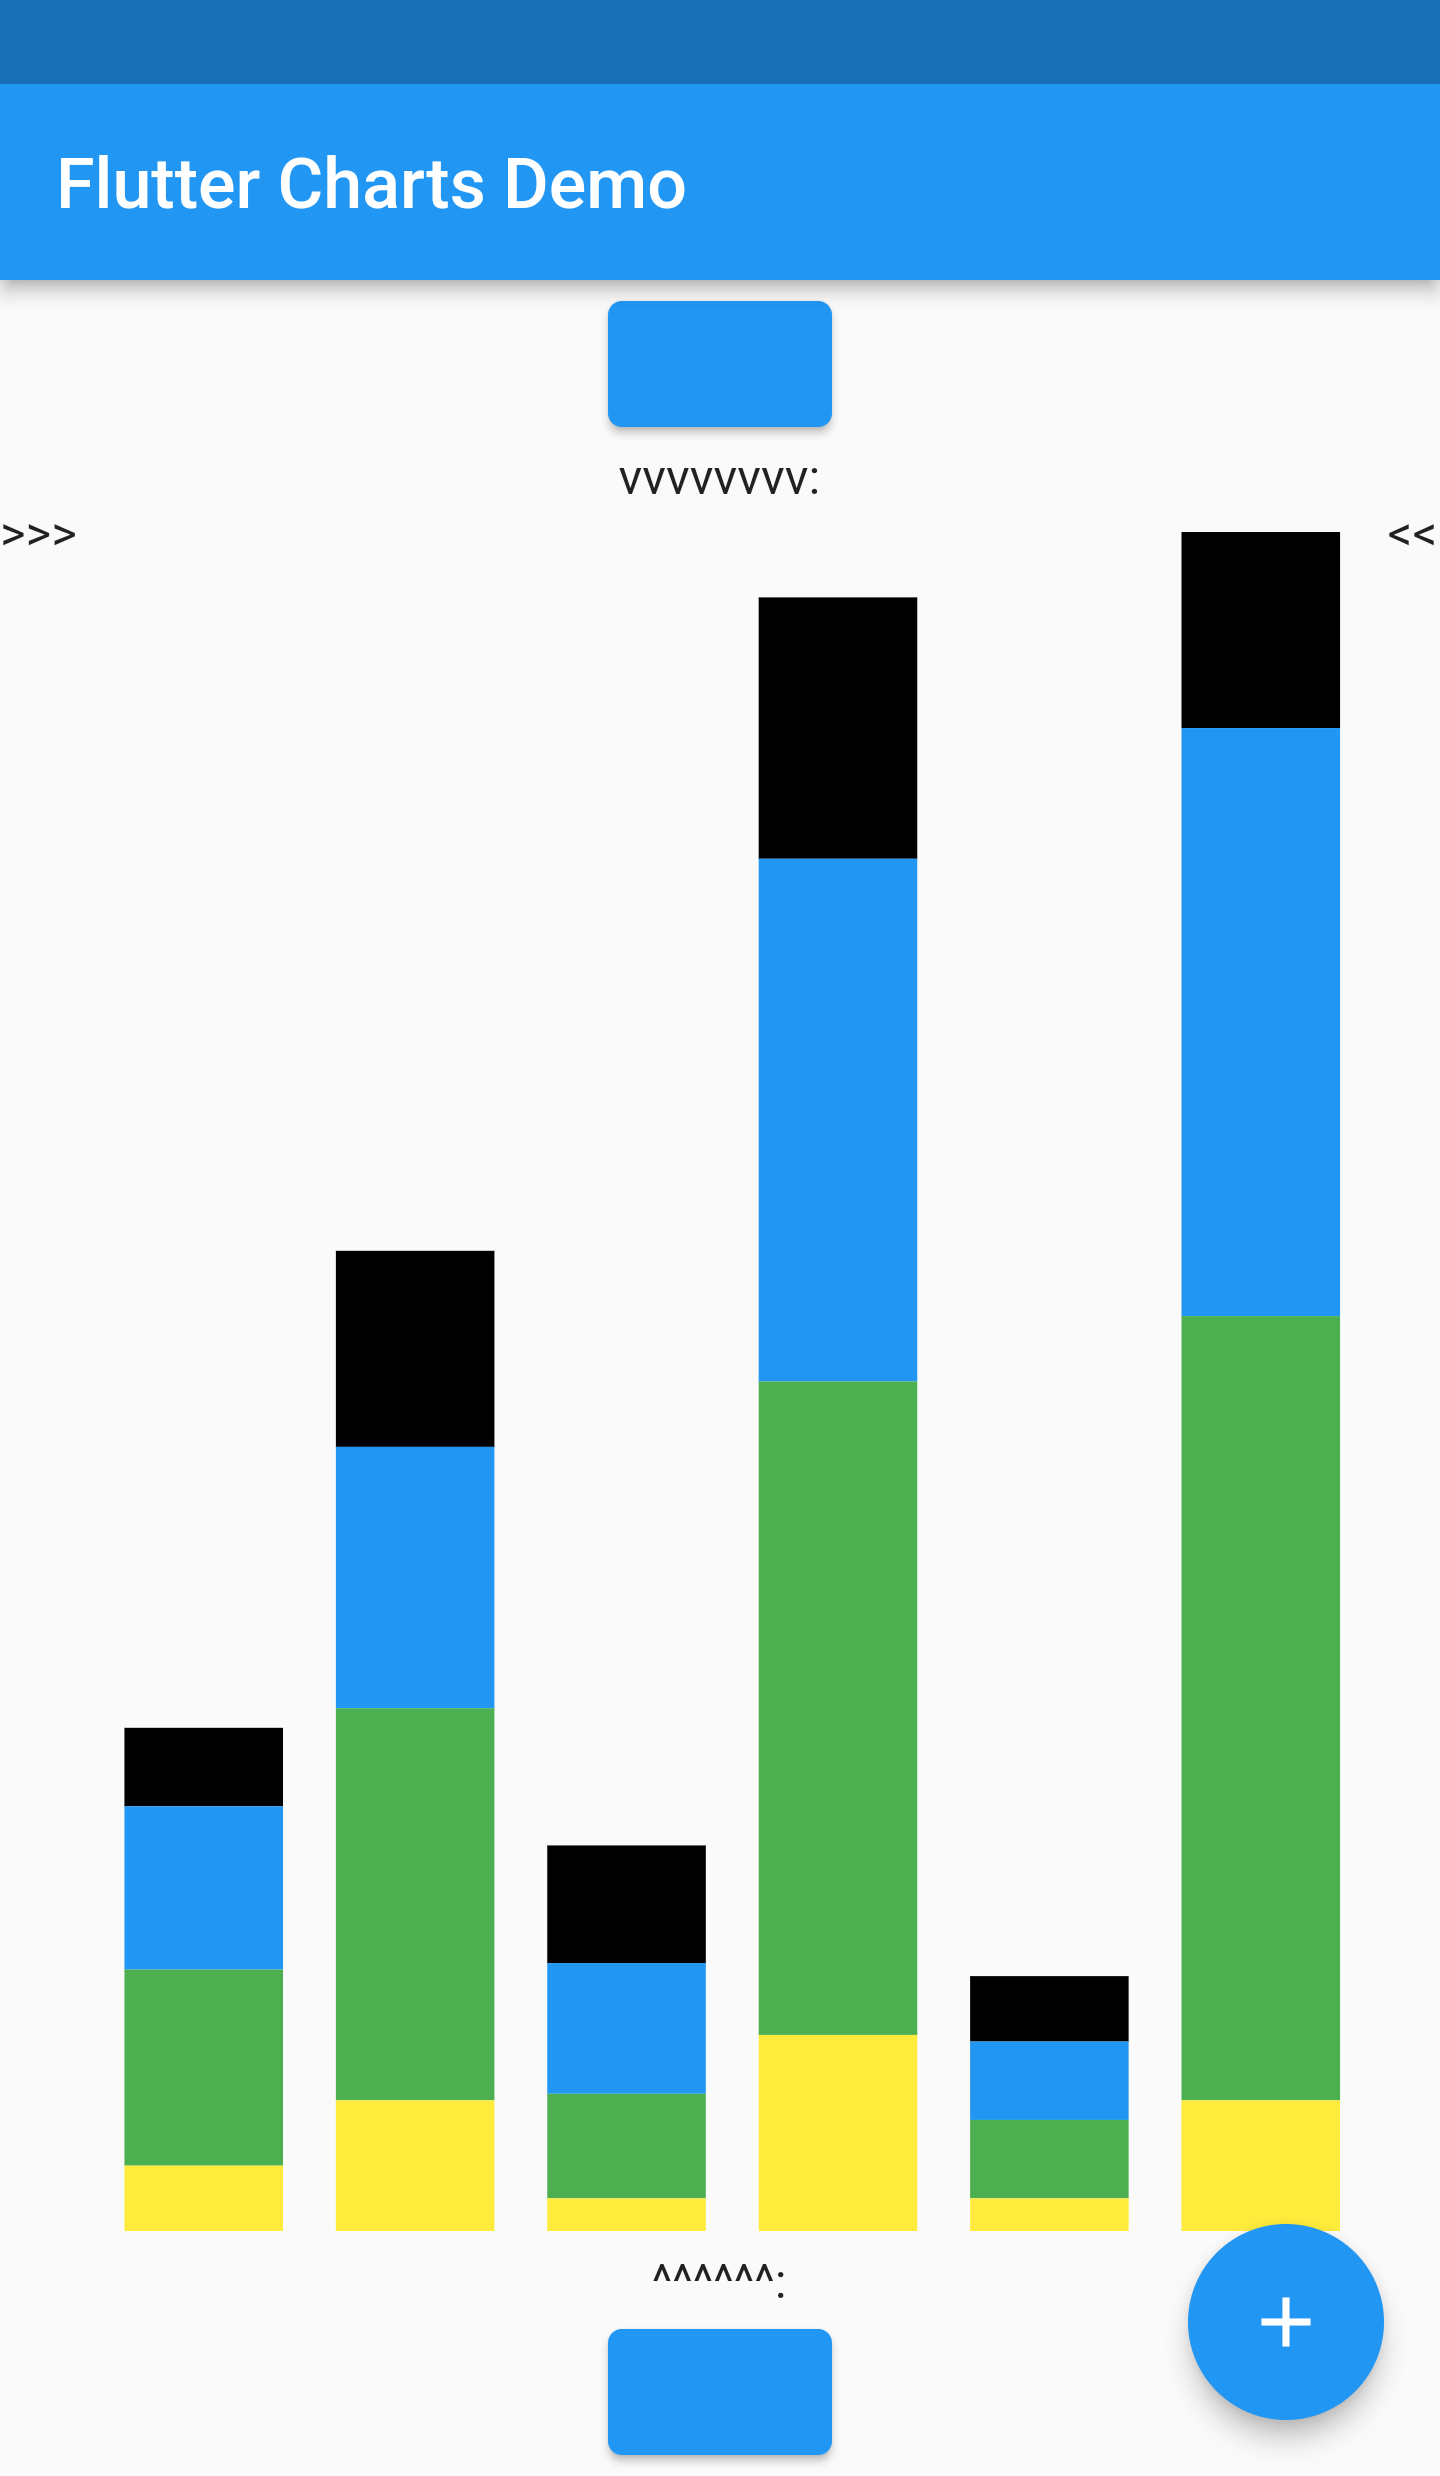
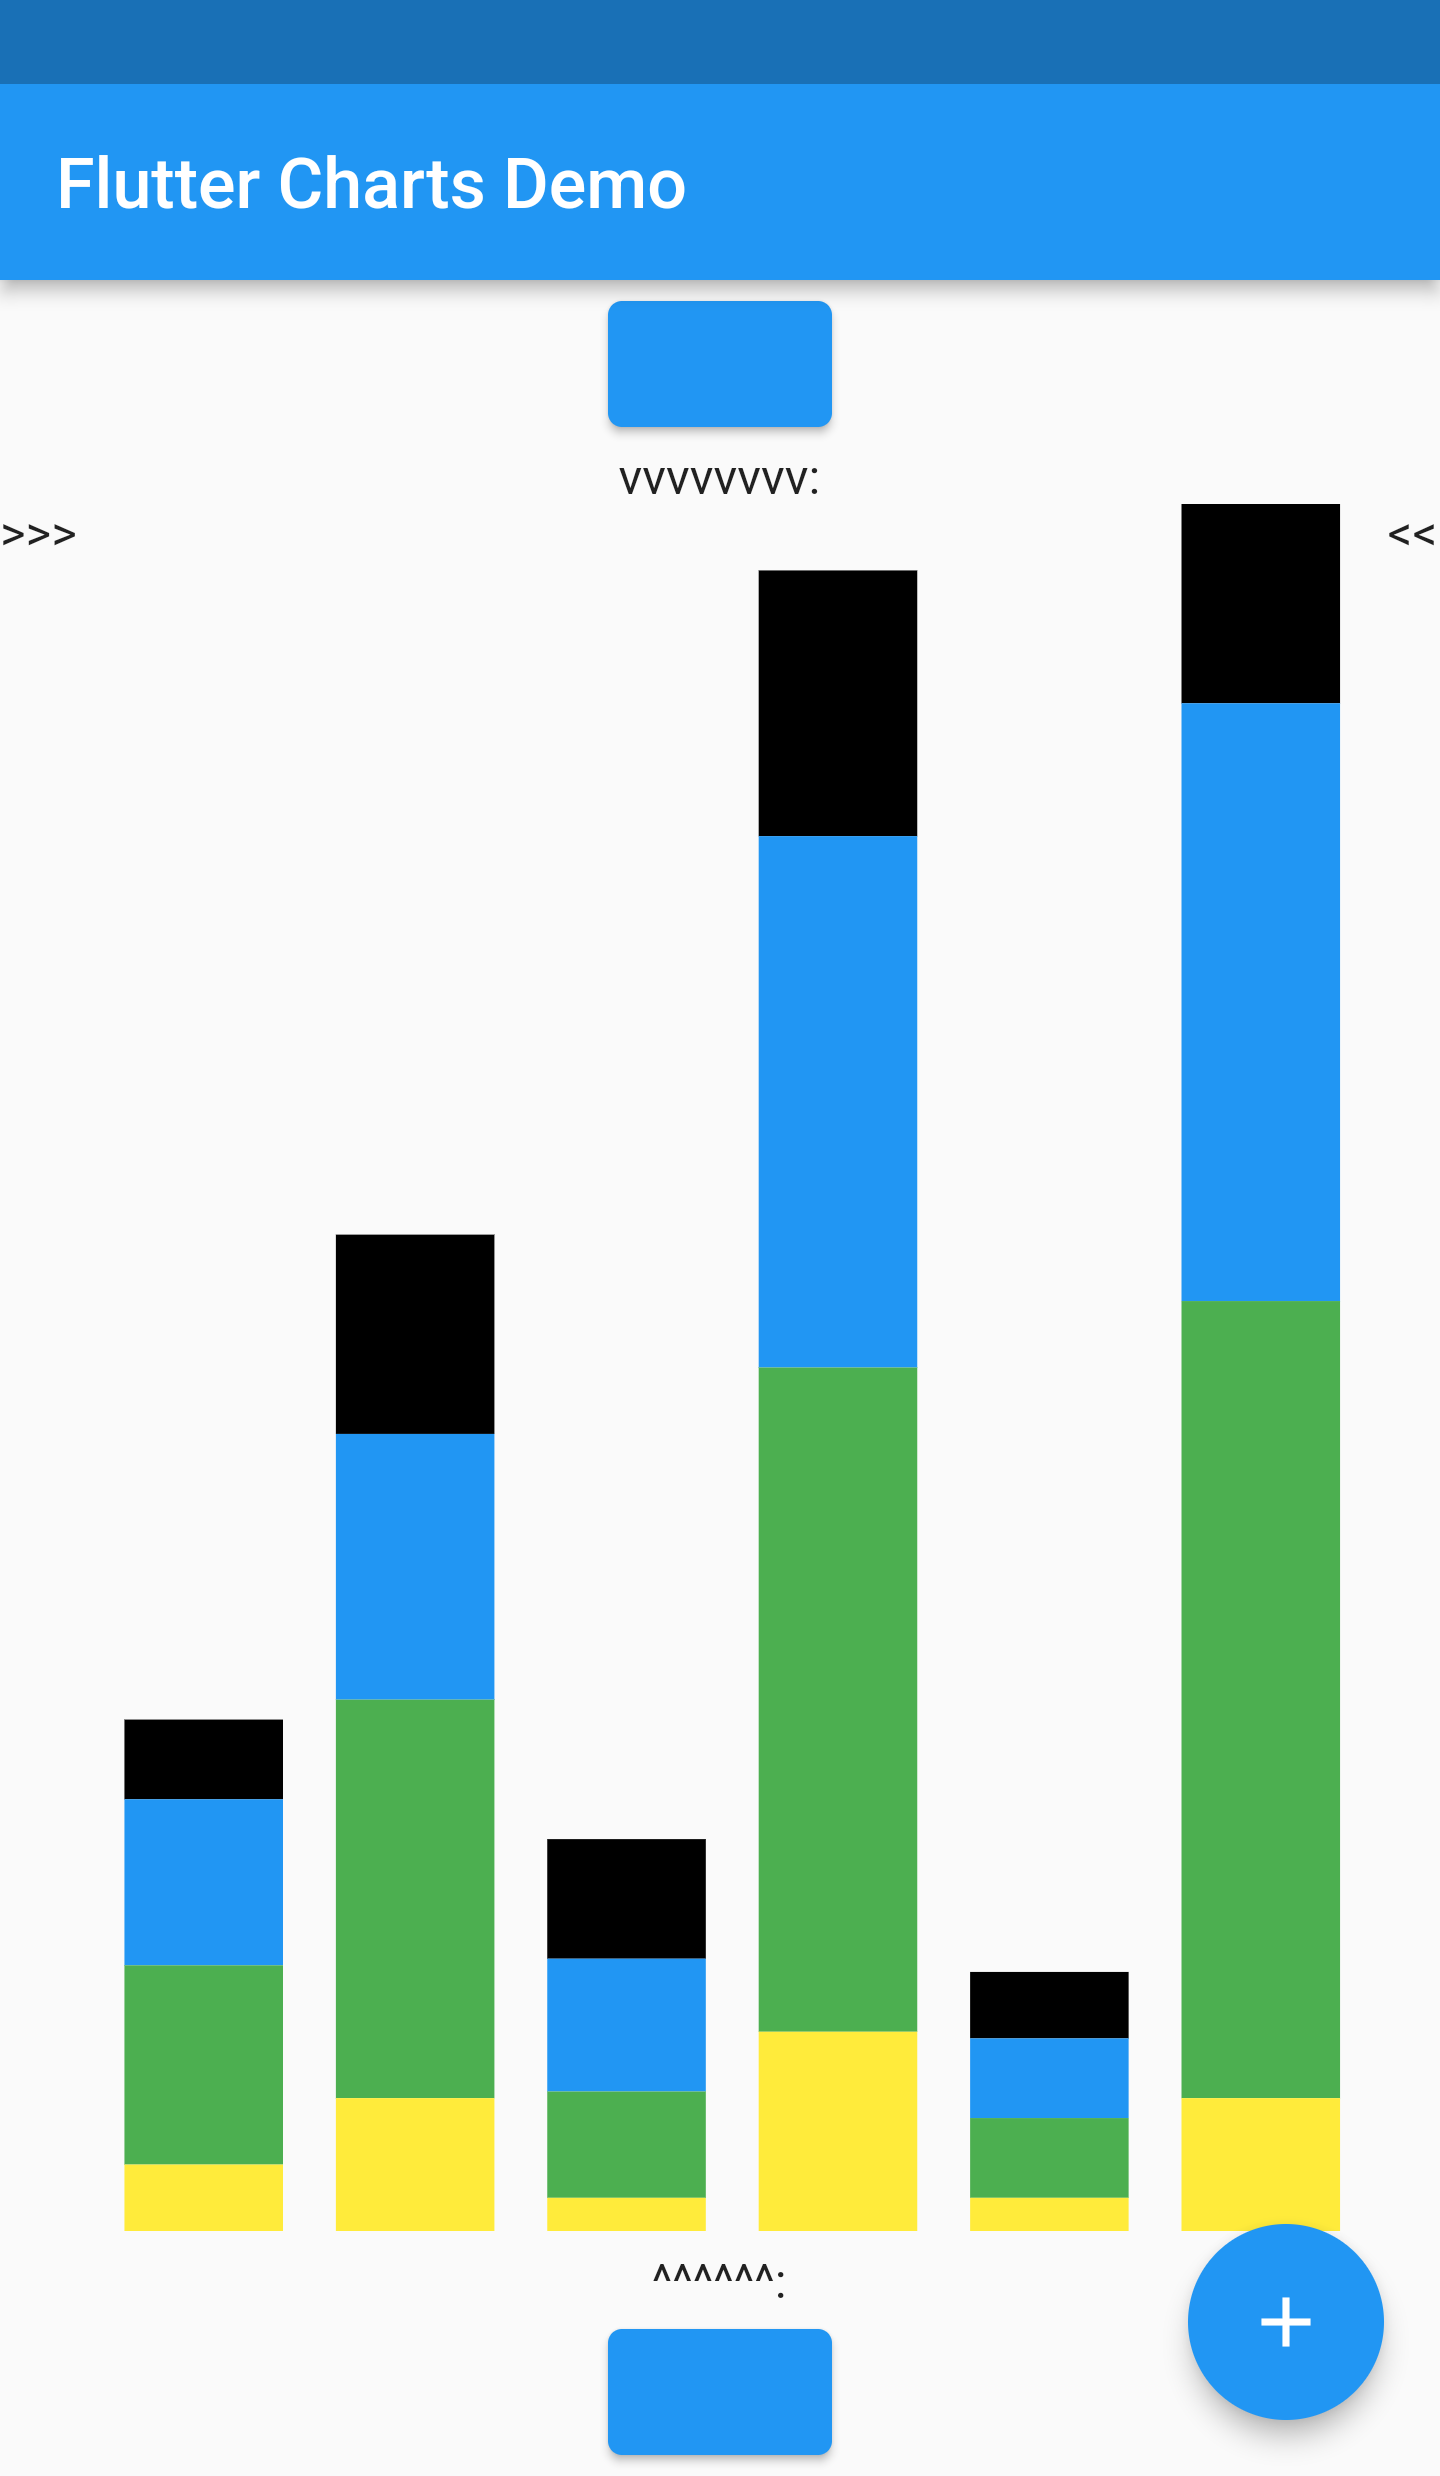
Minor change to yLabelsMaxHeightFromFirstLayout made public, and set after first layout on YContainer (as it was originally). Tests working.

diff --git a/lib/src/chart/container.dart b/lib/src/chart/container.dart
@@ -354,10 +354,10 @@ abstract class ChartRootContainer extends BoxContainerUsingManualLayout with Cha
 
     // todo-00-last-last added as we cannot use anything from first layout,which did not happen yet. Debug showed this was 16.0
     // This seems to be used as how much from the top of Y gridline is NOT used for scaling; does NOT affect correctness
-    var yLabelsMaxHeightFromFirstLayout = 16.0;
+    // todo-00-last-last : var yLabelsMaxHeightFromFirstLayout = 16.0;
     yContainer = YContainer(
       chartRootContainer: this,
-      yLabelsMaxHeightFromFirstLayout: yLabelsMaxHeightFromFirstLayout,
+      // todo-00-last-last : yLabelsMaxHeightFromFirstLayout: yLabelsMaxHeightFromFirstLayout,
     );
     children.add(yContainer); // todo-01-done-duplicite-children
 
@@ -417,7 +417,10 @@ abstract class ChartRootContainer extends BoxContainerUsingManualLayout with Cha
     ));
 
     yContainerFirst.layout(yContainerFirstBoxConstraints);
+
+    // Use values from the yContainerFirst pre-layout on yContainer, and xContainer constraints
     double yLabelsMaxHeightFromFirstLayout = yContainerFirst.yLabelsMaxHeight;
+    yContainer._yLabelsMaxHeightFromFirstLayout = yLabelsMaxHeightFromFirstLayout;
     // todo-00-last-last-done : yContainer = yContainerFirst;
     // todo-00-last-last-done : ui.Size yContainerFirstSize = yContainer.layoutSize;
     // yContainerFirst.layoutSize is needed by XContainer to get it's width. Must not change on second YContainer layout
@@ -592,7 +595,8 @@ class YContainer extends ChartAreaContainerUsingManualLayout {
   /// todo 0-future-minor : above is not true now for user defined labels
   late List<AxisLabelContainer> _yLabelContainers;
 
-  final double _yLabelsMaxHeightFromFirstLayout;
+  /// Maximum label height defined by the first layout (pre-layout), in layout after this is created
+  double _yLabelsMaxHeightFromFirstLayout = 0.0;
 
   /// Constructs the container that holds Y labels.
   ///
@@ -600,11 +604,12 @@ class YContainer extends ChartAreaContainerUsingManualLayout {
   /// all available vertical space, and only use necessary horizontal space.
   YContainer({
     required ChartRootContainer chartRootContainer,
-    required double yLabelsMaxHeightFromFirstLayout,
-  })  : _yLabelsMaxHeightFromFirstLayout = yLabelsMaxHeightFromFirstLayout,
-        super(
+    double yLabelsMaxHeightFromFirstLayout = 0.0,
+  }) : super(
           chartRootContainer: chartRootContainer,
-        );
+        ) {
+    _yLabelsMaxHeightFromFirstLayout = yLabelsMaxHeightFromFirstLayout;
+  }
 
   /// Lays out the area containing the Y axis labels.
   ///
@@ -1442,7 +1447,8 @@ class GridLinesContainer extends BoxContainer {
 
   /// Overrides the concrete super method [BoxContainer.paint].
   ///
-  /// Does not do super's skipping of ignored children and painting a yellow-and-black warning box.
+  /// [GridLinesContainer] does not do super's skipping of ignored children and
+  /// also does not do painting a yellow-and-black warning box.
   @override
   void paint(ui.Canvas canvas) {
     for (LineContainer lineContainer in _lineContainers) {

diff --git a/lib/src/chart/layouter_one_dimensional.dart b/lib/src/chart/layouter_one_dimensional.dart
@@ -18,6 +18,9 @@ import 'package:flutter_charts/src/util/util_dart.dart' as util_dart show LineSe
 enum Packing {
   /// [Packing.matrjoska] should layout elements so that the smallest element is fully
   /// inside the next larger element, and so on. The largest element contains all smaller elements.
+  ///
+  /// This packing is used on cross-axis for Column and Row layouters (Column is packed as matrjoska
+  /// along horizontal axis, Row is packed as matrjoska along vertical axis)
   matrjoska,
 
   /// [Packing.tight] should layout elements in a way they tight together into a group with no padding between elements.
